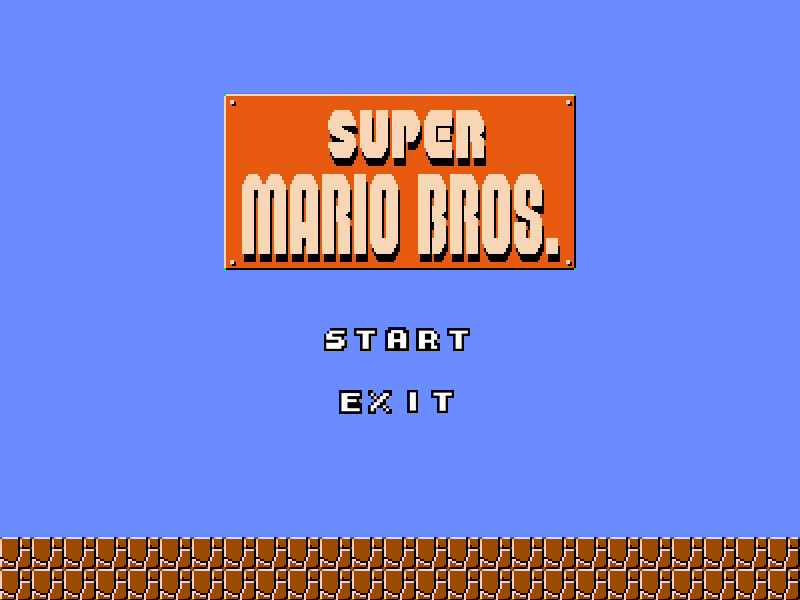
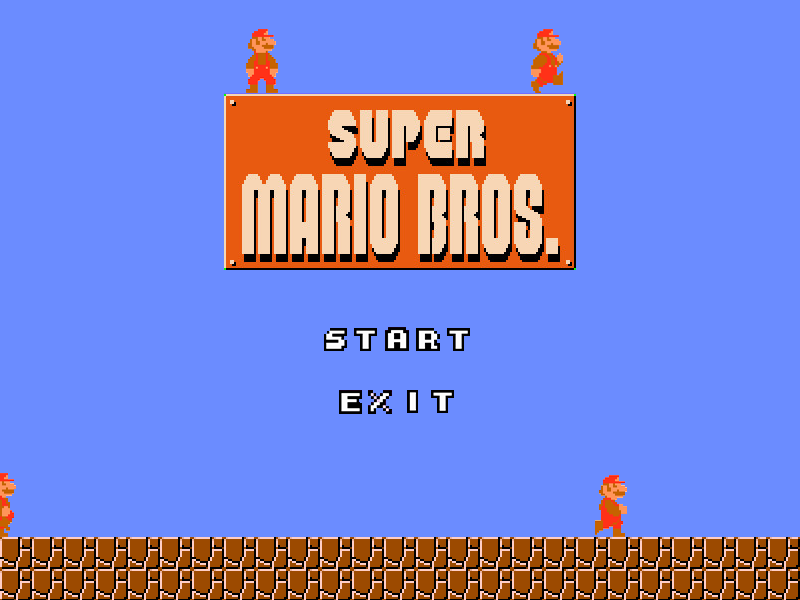
수정사항 여러가지 추가
시작화면, 스테이지 선택화면 완료

diff --git a/modify/game_state_lobby.py b/modify/game_state_lobby.py
@@ -2,19 +2,94 @@ import framework
 import game_state_stage1
 from pico2d import *
 
+image = None
+image_stage1=None
+image_stage2=None
+image_stage3=None
+image_stage4=None
+marioL=None
+marioR=None
+
+marioX=100
+marioFrame=0
+marioMoving=False
+marioDir=1
+stageSelect=0
+
 def enter():
-    pass
+    global image,marioL,marioR
+    global image_stage1,image_stage2,image_stage3,image_stage4
+    image = load_image('lobby.png')
+    image_stage1 = load_image('mushroom.png')
+    image_stage2 = load_image('flower.png')
+    image_stage3 = load_image('star.png')
+    image_stage4 = load_image('cusor.png')
+    marioL= load_image('MgoingL.png')
+    marioR = load_image('MgoingR.png')
+
 
 def exit():
-    pass
+    global image,image_stage1,image_stage2,image_stage3,image_stage4,marioL,marioR
+    del(image)
+    del (image_stage1)
+    del (image_stage2)
+    del (image_stage3)
+    del (image_stage4)
+    del (marioL)
+    del (marioR)
+
 
 def draw():
-    pass
+    clear_canvas()
+    image.draw(400,300)
+    image_stage1.draw(180,80)
+    if framework.stageindex>=2: image_stage2.draw(330, 80)
+    if framework.stageindex >= 3: image_stage3.draw(480, 80)
+    if framework.stageindex >= 4: image_stage4.draw(630, 80)
+
+    if marioDir > 0: marioR.clip_draw(marioFrame * 32, 0, 32, 32, marioX, 80)
+    if marioDir < 0: marioL.clip_draw(marioFrame * 32, 0, 32, 32, marioX, 80)
+    update_canvas()
 
 def update():
-    pass
+    global marioFrame,marioMoving,marioDir,marioX,stageSelect
+    marioFrame=(marioFrame+1)%4
+    if marioMoving==True:
+        if marioDir >0:
+            if stageSelect==1:
+                if marioX<=180: marioX+=1
+                else : marioMoving=False
+            elif stageSelect==2:
+                if marioX<=330: marioX+=1
+                else : marioMoving=False
+            elif stageSelect==3:
+                if marioX<=480: marioX+=1
+                else : marioMoving=False
+            elif stageSelect==4:
+                if marioX<=630: marioX+=1
+                else : marioMoving=False
+            else : marioMoving=False
+        if marioDir <0:
+            if stageSelect==1:
+                if marioX>180: marioX-=1
+                else : marioMoving=False
+            elif stageSelect==2:
+                if marioX>330: marioX-=1
+                else : marioMoving=False
+            elif stageSelect==3:
+                if marioX>480: marioX-=1
+                else : marioMoving=False
+            elif stageSelect==4:
+                if marioX>630: marioX-=1
+                else : marioMoving=False
+            else :
+                if marioX>100: marioX-=1
+                else : marioMoving=False
+
+
 
 def handle_events():
+    global marioDir,marioMoving,stageSelect
     events = get_events()
     for event in events:
         if event.type == SDL_QUIT:
@@ -22,5 +97,17 @@ def handle_events():
         else:
             if (event.type, event.key) == (SDL_KEYDOWN, SDLK_ESCAPE):
                 framework.quit()
+            elif (event.type, event.key) == (SDL_KEYDOWN, SDLK_RIGHT) and marioMoving==False:
+                if stageSelect < 4 : stageSelect+=1
+                stageSelect=clamp(0,stageSelect,framework.stageselect)
+                marioMoving=True
+                marioDir=1
+            elif (event.type, event.key) == (SDL_KEYDOWN, SDLK_LEFT) and marioMoving==False:
+                if stageSelect > 0: stageSelect -= 1
+                stageSelect = clamp(0, stageSelect, framework.stageselect)
+                marioMoving=True
+                marioDir=-1
+
             elif (event.type, event.key) == (SDL_KEYDOWN, SDLK_SPACE):
-                framework.change_state(game_state_stage1)
+                if stageSelect==1:
+                    framework.change_state(game_state_stage1)

diff --git a/modify/title_state.py b/modify/title_state.py
@@ -2,19 +2,35 @@ import framework
 import game_state_lobby
 from pico2d import *
 
+
+image = None
+cusor = None
+menuindex=1
 def enter():
-    pass
+    global image
+    global cusor
+    image = load_image('title.png')
+    cusor = load_image('cusor.png')
 
 def exit():
-    pass
+    global image,cusor
+    del(image)
+    del(cusor)
 
 def draw():
-    pass
+    clear_canvas()
+    image.draw(400,300)
+    if menuindex==1:
+        cusor.draw(280,260)
+    else :
+        cusor.draw(280, 200)
+    update_canvas()
 
 def update():
     pass
 
 def handle_events():
+    global menuindex
     events = get_events()
     for event in events:
         if event.type == SDL_QUIT:
@@ -22,7 +38,15 @@ def handle_events():
         else:
             if (event.type, event.key) == (SDL_KEYDOWN, SDLK_ESCAPE):
                 framework.quit()
+            elif (event.type, event.key) == (SDL_KEYDOWN, SDLK_UP):
+                if menuindex == 1: menuindex = 2
+                else: menuindex=1
+            elif (event.type, event.key) == (SDL_KEYDOWN, SDLK_DOWN):
+                if menuindex == 1: menuindex = 2
+                else:  menuindex = 1
             elif (event.type, event.key) == (SDL_KEYDOWN, SDLK_SPACE):
-                framework.change_state(game_state_lobby)
+                if menuindex==1: framework.change_state(game_state_lobby)
+                else : framework.quit()
+
 
 

diff --git a/modify/framework.py b/modify/framework.py
@@ -7,9 +7,9 @@ class GameState:
         self.handle_events = state.handle_events
         self.update = state.update
         self.draw = state.draw
-        self.stageindex=1
 
-
+stageindex=1
+stageselect=1
 running = None
 stack = None
 
